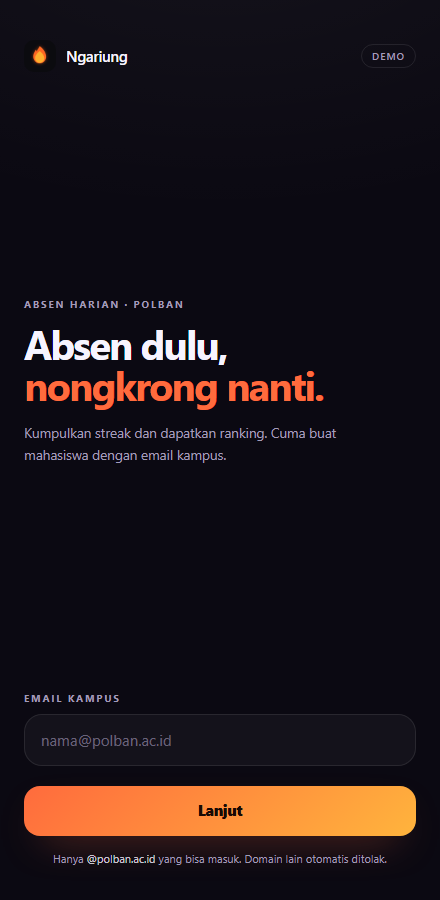
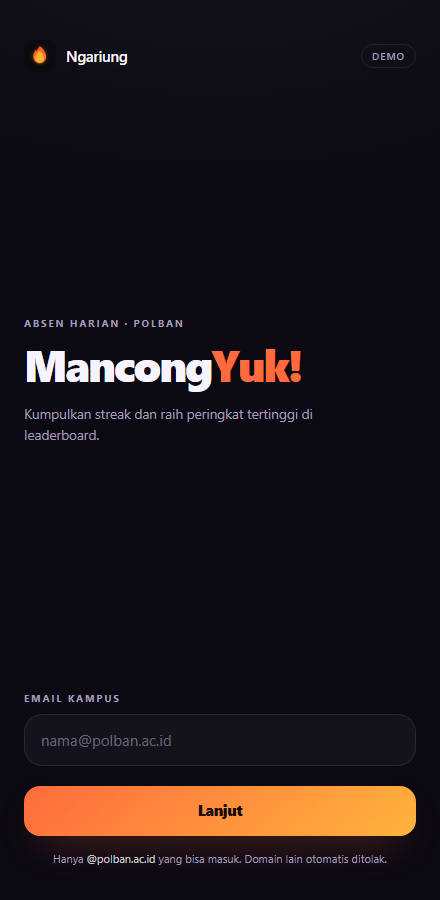
Copy Login

Changed region(s): [[0.0591, 0.3111, 0.7682, 0.5289]]

diff --git a/app/login/page.tsx b/app/login/page.tsx
@@ -97,14 +97,11 @@ export default function LoginPage() {
 
       <div className="flex flex-1 flex-col justify-center py-8">
         <p className="eyebrow">Absen harian · Polban</p>
-        <h1 className="mt-3 text-[40px] font-bold leading-[1.02] tracking-[-0.045em]">
-          Absen dulu,
-          <br />
-          <span className="text-flame">nongkrong nanti.</span>
+        <h1 className="mt-3 text-[44px] font-extrabold leading-[0.98] tracking-[-0.045em]">
+          Mancong<span className="text-flame">Yuk!</span>
         </h1>
         <p className="mt-4 max-w-[320px] text-[13.5px] leading-relaxed text-muted">
-          Kumpulkan streak dan dapatkan ranking. Cuma buat mahasiswa dengan email
-          kampus.
+          Kumpulkan streak dan raih peringkat tertinggi di leaderboard.
         </p>
       </div>
 
